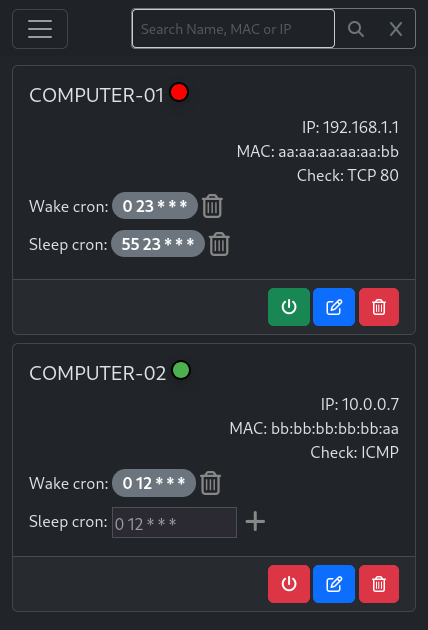
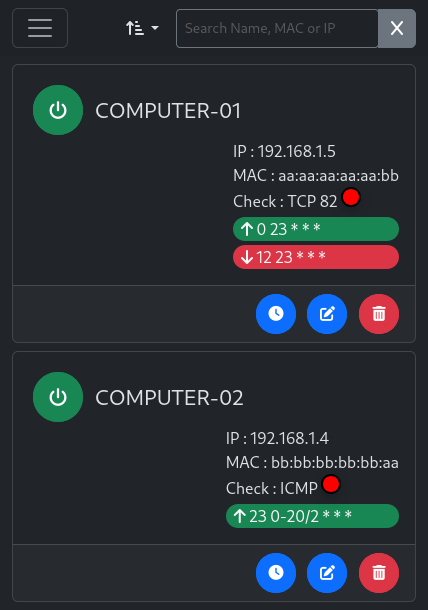
6.0.0 Major UI Redisign

diff --git a/app/templates/wol_form.html b/app/templates/wol_form.html
@@ -18,6 +18,10 @@
     <script>
       const arp_scan_url = "{{ url_for('arp_scan') }}";
       const check_status_url = "{{ url_for('check_status') }}";
+      const add_wol_cron_url = "{{ url_for('add_wol_cron') }}"
+      const add_sol_cron_url = "{{ url_for('add_sol_cron') }}"
+      const delete_wol_cron_url = "{{ url_for('delete_wol_cron') }}"
+      const delete_sol_cron_url = "{{ url_for('delete_sol_cron') }}"
 
       {% if os.environ.get('ENABLE_REFRESH') != 'false' -%}
         setInterval(() => {
@@ -115,92 +119,62 @@
    {% endif -%}
 
     <div class="container-fluid">
-      <div class="row justify-content-center">
+      <div class="row row-sortable">
         {% for computer in computers %}
-        <div class="col-lg-4 col-md-6 computer-card">
-          <div class="card mt-2">
-            <div class="card-body">
-              <h5 class="card-title">{{ computer.name }} <span class="status-indicator asleep" data-ip-address="{{ computer.ip_address }}" data-test-type="{{ computer.test_type }}"></span></h5>
-              <div class="text-end">IP: {{ computer.ip_address }}</div>
-              <div class="text-end">MAC: {{ computer.mac_address }}</div>
-              {% if computer.test_type == 'icmp' -%}
-              <div class="text-end">Check: ICMP</div>
-              {% elif computer.test_type == 'arp' -%}
-              <div class="text-end">Check: ARP</div>
-              {% else -%}
-              <div class="text-end">Check: TCP {{ computer.test_type }}</div>
-              {% endif -%}
-              <div class="row align-items-center g-0">
-              {% if computer.cron_wol_schedule is defined -%}
-                <div class="col-md-auto w-auto">Wake cron:  <span class="badge bg-secondary rounded-pill fs-6">{{ computer.cron_wol_schedule }}</span></div>
-                {% if os.environ.get('ENABLE_ADD_DEL') != 'false' -%}
-                <div class="col-md-auto w-auto">
-                  <button class="delete-button" type="submit" title="Delete Cron" data-bs-toggle="modal" data-bs-target="#staticDelete" onclick="setDeleteForm('{{ url_for('delete_wol_cron') }}', 'mac_address', '{{ computer.mac_address }}', 'Wake cron of {{ computer.name }}')">
-                    <i class="fa-regular fa-trash-can"></i>
-                  </button>
-                </div>
-                {% endif -%}
-              {% else -%}
-                {% if os.environ.get('ENABLE_ADD_DEL') != 'false' -%}
-                <div class="col-md-auto w-auto pe-1">Wake cron: </div>
-                <div class="col-md-auto w-auto">
-                  <form method="POST" action="{{ url_for('add_wol_cron') }}">
+        <div class="col-lg-3 col-md-6 d-flex computer-card">
+          <div class="card mt-2 flex-fill d-flex flex-column">
+            <div class="card-body d-flex flex-column flex-grow-1">
+              <div class="title-sortable row justify-content-start p-1">
+                <div class="col-auto">
+                  <form method="POST" action="{{ url_for('wol_or_sol_send') }}">
                     <input type="hidden" name="mac_address" value="{{ computer.mac_address }}">
-                    <input class="w-50 border pt-1" type="text" name="cron_request" id="cron_request" placeholder="0 12 * * *" oninput="resizeInput()" required>
-                    <button class="add-button" type="submit" title="Add Cron">
-                       <i class="fa-solid fa-plus"></i>
+                    <button type="submit" class="btn btn-success btn-circle btn-xl status-power">
+                      <i class="fa-solid fa-power-off"></i>
                     </button>
                   </form>
                 </div>
-              {% else -%}
-                <div class="col-md-auto">Wake cron: Not defined</div>
-                {% endif -%}
-              {% endif -%}
+                <div class="col-auto px-0 my-auto">
+                  <div class="sortable fs-4">{{ computer.name }}</div>
+                </div>
               </div>
-              <div class="row align-items-center g-0">
-              {% if computer.cron_sol_schedule is defined -%}
-                <div class="col-md-auto w-auto">Sleep cron:  <span class="badge bg-secondary rounded-pill fs-6">{{ computer.cron_sol_schedule }}</span></div>
-                {% if os.environ.get('ENABLE_ADD_DEL') != 'false' -%}
-                <div class="col-md-auto w-auto">
-                  <button class="delete-button" type="submit" title="Delete Cron" data-bs-toggle="modal" data-bs-target="#staticDelete" onclick="setDeleteForm('{{ url_for('delete_sol_cron') }}', 'mac_address', '{{ computer.mac_address }}', 'Sleep cron of {{ computer.name }}')">
-                    <i class="fa-regular fa-trash-can"></i>
-                  </button>
+              <div class="d-flex justify-content-end flex-grow-1">
+                <div class="info-sortable">
+                  <div class="sortable">IP    : {{ computer.ip_address }}</div>
+                  <div class="sortable">MAC   : {{ computer.mac_address }}</div>
+                  {% if computer.test_type in ['icmp', 'arp'] -%}
+                  <div>Check : {{ computer.test_type | upper }}
+                  {% else -%}
+                  <div>Check : TCP {{ computer.test_type }}
+                  {% endif -%}
+                  <span class="status-indicator asleep" data-ip-address="{{ computer.ip_address }}" data-test-type="{{ computer.test_type }}"></span></div>
+                  {% if computer.cron_wol_schedule is defined -%}
+                  <div class="mt-1 text-light rounded-pill bg-success px-2">
+                    <i class="fa-solid fa-arrow-up"></i>
+                    <span>{{ computer.cron_wol_schedule }}</span>
+                  </div>
+                  {% endif -%}
+                  {% if computer.cron_sol_schedule is defined -%}
+                  <div class="mt-1 text-light rounded-pill bg-danger px-2">
+                    <i class="fa-solid fa-arrow-down"></i>
+                    <span>{{ computer.cron_sol_schedule }}</span>
+                  </div>
+                  {% endif -%}
                 </div>
-                {% endif -%}
-              {% else -%}
-                {% if os.environ.get('ENABLE_ADD_DEL') != 'false' -%}
-                <div class="col-md-auto w-auto pe-1">Sleep cron: </div>
-                <div class="col-md-auto w-auto">
-                  <form method="POST" action="{{ url_for('add_sol_cron') }}">
-                    <input type="hidden" name="mac_address" value="{{ computer.mac_address }}">
-                    <input class="w-50 border pt-1" type="text" name="cron_request" id="cron_request" placeholder="0 12 * * *" oninput="resizeInput()" required>
-                    <button class="add-button" type="submit" title="Add Cron">
-                       <i class="fa-solid fa-plus"></i>
-                    </button>
-                  </form>
-                </div>
-              {% else -%}
-                <div class="col-md-auto">Sleep cron: Not defined</div>
-                {% endif -%}
-              {% endif -%}
               </div>
             </div>
-            <div class="card-footer text-end">
-              <form method="POST" action="{{ url_for('wol_or_sol_send') }}" style="display: inline-block;">
-                <input type="hidden" name="mac_address" value="{{ computer.mac_address }}">
-                <button type="submit" class="btn btn-success status-power">
-                  <i class="fa-solid fa-power-off"></i>
-                </button>
-              </form>
-              {% if os.environ.get('ENABLE_ADD_DEL') != 'false' -%}
-              <button type="button" class="btn btn-primary" title="Edit computer" data-bs-toggle="modal" data-bs-target="#editComputer" data-name="{{ computer.name }}" data-mac-address="{{ computer.mac_address }}" data-ip-address="{{ computer.ip_address }}" data-test-type="{{ computer.test_type }}">
+            {% if os.environ.get('ENABLE_ADD_DEL') != 'false' -%}
+            <div class="card-footer text-end py-0">
+              <button type="button" class="btn btn-primary btn-circle btn-lg" title="Configure Cron" data-bs-toggle="modal" data-bs-target="#cronSettingsModal" onclick="loadCronSettings('{{ computer.name }}', '{{ computer.cron_wol_schedule }}', '{{ computer.cron_sol_schedule }}', '{{ computer.mac_address }}')">
+                <i class="fa-regular fa-clock"></i>
+              </button>
+              <button type="button" class="btn btn-primary btn-circle btn-lg m-2" title="Edit computer" data-bs-toggle="modal" data-bs-target="#editComputer" data-name="{{ computer.name }}" data-mac-address="{{ computer.mac_address }}" data-ip-address="{{ computer.ip_address }}" data-test-type="{{ computer.test_type }}">
                 <i class="fa-regular fa-pen-to-square"></i>
               </button>
-              <button type="button" class="btn btn-danger" title="Delete computer" data-bs-toggle="modal" data-bs-target="#staticDelete" onclick="setDeleteForm('{{ url_for('delete_computer') }}', 'mac_address', '{{ computer.mac_address }}', 'Computer {{ computer.name }}')">
+              <button type="button" class="btn btn-danger btn-circle btn-lg" title="Delete computer" data-bs-toggle="modal" data-bs-target="#staticDelete" onclick="setDeleteForm('{{ url_for('delete_computer') }}', 'mac_address', '{{ computer.mac_address }}', 'Computer {{ computer.name }}')">
                 <i class="fa-regular fa-trash-can"></i>
               </button>
-              {% endif -%}
             </div>
+            {% endif -%}
           </div>
         </div>
         {% endfor %}
@@ -280,6 +254,23 @@
       </div>
     </div>
 
+    <div class="modal fade" id="cronSettingsModal" tabindex="-1" aria-labelledby="cronSettingsModalLabel" aria-hidden="true">
+      <div class="modal-dialog">
+        <div class="modal-content">
+          <div class="modal-header">
+            <h5 class="modal-title" id="cronSettingsModalLabel">Schedule Wake or Sleep</h5>
+            <button type="button" class="btn-close" data-bs-dismiss="modal" aria-label="Close"></button>
+          </div>
+          <div class="modal-body">
+            <div id="cronSettingsContent"></div>
+          </div>
+          <div class="modal-footer">
+            <button type="button" class="btn btn-secondary" data-bs-dismiss="modal">Close</button>
+          </div>
+        </div>
+      </div>
+    </div>
+
     <div class="modal fade" id="staticDelete" data-bs-backdrop="static" data-bs-keyboard="false" tabindex="-1" aria-labelledby="staticDeleteLabel" aria-hidden="true">
       <div class="modal-dialog">
         <div class="modal-content">
@@ -332,13 +323,8 @@
                   <span>GPTWOL</span>
                 </a>
               </p>
-              <p><strong>Version:</strong> 5.3.2</p>
+              <p><strong>Version:</strong> 6.0.0</p>
               <p><strong>License:</strong> MIT</p>
-            </div>
-            <hr>
-            <div class="text-center">
-              <p><strong>Documentation:</strong></p>
-              <p>- <a class="text-decoration-none" href="https://github.com/Misterbabou/gptwol#configure-sleep-on-lan" target="_blank" rel="noopener noreferrer">Configure Sleep on Lan</a></p>
             </div>
           </div>
           <div class="modal-footer">
@@ -350,6 +336,7 @@
 
     {% if os.environ.get('ENABLE_ADD_DEL') != 'false' -%}
     <script src="{{ url_for('static', filename='js/editcomputer.js') }}"></script>
+    <script src="{{ url_for('static', filename='js/editcron.js') }}"></script>
     <script src="{{ url_for('static', filename='js/delcomputer.js') }}"></script>
     {% endif -%}
     <script src="{{ url_for('static', filename='js/darkmode.js') }}"></script>

diff --git a/app/templates/js/editcron.js b/app/templates/js/editcron.js
@@ -1,0 +1,78 @@
+function loadCronSettings(computerName, wolSchedule, solSchedule, macAddress) {
+  const header = `<h5 class="text-primary">${computerName} (${macAddress})</h5>`;
+
+  const helpSection = `
+    <hr>
+    <div>
+      <div><strong>Help:</strong></div>
+      <div>- <a class="text-decoration-none" href="https://crontab.guru/" target="_blank" rel="noopener noreferrer">Generate cron entry</a></div>
+      <div>- <a class="text-decoration-none" href="https://github.com/Misterbabou/gptwol#configure-sleep-on-lan" target="_blank" rel="noopener noreferrer">Configure Sleep on Lan</a></div>
+    </div>
+    `;
+
+  const wolContent = wolSchedule ? `
+    <div class="row align-items-center g-0">
+      <div class="col-md-auto w-auto">Wake cron: <span class="badge bg-secondary rounded-pill fs-6">${wolSchedule}</span></div>
+      <div class="col-md-auto w-auto">
+        <button class="delete-button" type="button" title="Delete Wake Cron" onclick="deleteCron('${macAddress}', 'wol')">
+          <i class="fa-regular fa-trash-can"></i>
+        </button>
+      </div>
+    </div>` : `
+    <div class="row align-items-center g-0">
+      <div class="col-md-auto w-auto">Wake cron:</div>
+      <div class="col-md-auto w-auto">
+        <form method="POST" action="${add_wol_cron_url}">
+          <input type="hidden" name="mac_address" value="${macAddress}">
+          <input class="pt-1" type="text" name="cron_request" placeholder="0 12 * * *" required>
+          <button class="add-button" type="submit" title="Add Cron">
+            <i class="fa-solid fa-plus"></i>
+          </button>
+        </form>
+      </div>
+    </div>`;
+
+  const solContent = solSchedule ? `
+    <div class="row align-items-center g-0">
+      <div class="col-md-auto w-auto">Sleep cron: <span class="badge bg-secondary rounded-pill fs-6">${solSchedule}</span></div>
+      <div class="col-md-auto w-auto">
+        <button class="delete-button" type="button" title="Delete Sleep Cron" onclick="deleteCron('${macAddress}', 'sol')">
+          <i class="fa-regular fa-trash-can"></i>
+        </button>
+      </div>
+    </div>` : `
+    <div class="row align-items-center g-0">
+      <div class="col-md-auto w-auto">Sleep cron:</div>
+      <div class="col-md-auto w-auto">
+        <form method="POST" action="${add_sol_cron_url}">
+          <input type="hidden" name="mac_address" value="${macAddress}">
+          <input class="pt-1" type="text" name="cron_request" placeholder="0 12 * * *" required>
+          <button class="add-button" type="submit" title="Add Cron">
+            <i class="fa-solid fa-plus"></i>
+          </button>
+        </form>
+      </div>
+    </div>`;
+
+  const content = header + wolContent + solContent + helpSection;
+
+  document.getElementById('cronSettingsContent').innerHTML = content;
+}
+
+function deleteCron(macAddress, type) {
+  const url = type === 'wol' ? delete_wol_cron_url : delete_sol_cron_url;
+
+  // Create a form to submit the delete request
+  const form = document.createElement('form');
+  form.method = 'POST';
+  form.action = url;
+
+  const input = document.createElement('input');
+  input.type = 'hidden';
+  input.name = 'mac_address';
+  input.value = macAddress;
+
+  form.appendChild(input);
+  document.body.appendChild(form);
+  form.submit();
+}

diff --git a/app/templates/js/searchbar.js b/app/templates/js/searchbar.js
@@ -3,14 +3,14 @@ function filterComputers() {
   const cards = document.querySelectorAll('.computer-card');
 
   cards.forEach(card => {
-    const title = card.querySelector('.card-title').textContent.toLowerCase();
-    const ip = card.querySelector('.text-end:nth-of-type(1)').textContent.toLowerCase(); // IP address
-    const mac = card.querySelector('.text-end:nth-of-type(2)').textContent.toLowerCase(); // MAC address
+    const title = card.querySelector('.title-sortable .sortable').textContent.toLowerCase();
+    const ip = card.querySelector('.info-sortable .sortable:nth-of-type(1)').textContent.toLowerCase(); // IP address
+    const mac = card.querySelector('.info-sortable .sortable:nth-of-type(2)').textContent.toLowerCase(); // MAC address
 
     if (title.includes(query) || ip.includes(query) || mac.includes(query)) {
-      card.style.display = ''; // Show card
+      card.classList.remove('hidden'); // Show card
     } else {
-      card.style.display = 'none'; // Hide card
+      card.classList.add('hidden'); // Hide card
     }
   });
 }
@@ -29,7 +29,7 @@ function ipToNumber(ip) {
 }
 
 function sortComputers(criteria) {
-  const cardsContainer = document.querySelector('.row.justify-content-center');
+  const cardsContainer = document.querySelector('.row.row-sortable');
   const cards = Array.from(cardsContainer.children); // Convert NodeList to Array
 
   // Update the active class in the dropdown
@@ -44,21 +44,21 @@ function sortComputers(criteria) {
 
     switch (criteria) {
       case 'name':
-        aValue = a.querySelector('.card-title').textContent.toLowerCase();
-        bValue = b.querySelector('.card-title').textContent.toLowerCase();
+        aValue = a.querySelector('.title-sortable .sortable').textContent.toLowerCase();
+        bValue = b.querySelector('.title-sortable .sortable').textContent.toLowerCase();
         dropdownItems[0].classList.add('active'); // Sort by Name
         return aValue.localeCompare(bValue); // Compare values for sorting
 
       case 'ip':
-        const aIp = a.querySelector('.text-end:nth-of-type(1)').textContent;
-        const bIp = b.querySelector('.text-end:nth-of-type(1)').textContent;
+        const aIp = a.querySelector('.info-sortable .sortable:nth-of-type(1)').textContent;
+        const bIp = b.querySelector('.info-sortable .sortable:nth-of-type(1)').textContent;
         dropdownItems[1].classList.add('active'); // Sort by IP
 
         return ipToNumber(aIp) - ipToNumber(bIp); // Compare numeric values
 
       case 'mac':
-        aValue = a.querySelector('.text-end:nth-of-type(2)').textContent.toLowerCase(); // MAC address
-        bValue = b.querySelector('.text-end:nth-of-type(2)').textContent.toLowerCase(); // MAC address
+        aValue = a.querySelector('.info-sortable .sortable:nth-of-type(2)').textContent.toLowerCase(); // MAC address
+        bValue = b.querySelector('.info-sortable .sortable:nth-of-type(2)').textContent.toLowerCase(); // MAC address
         dropdownItems[2].classList.add('active'); // Sort by MAC
         return aValue.localeCompare(bValue); // Compare values for sorting
     }

diff --git a/app/templates/css/styles.css b/app/templates/css/styles.css
@@ -1,3 +1,7 @@
+.hidden {
+  display: none !important;
+}
+
 .status-indicator {
   width: 20px;
   height: 20px;
@@ -31,4 +35,30 @@
   border-radius: 4px;
   flex: 1;
   font-size: 14px;
+}
+
+.btn-circle {
+  width: 30px;
+  height: 30px;
+  text-align: center;
+  padding: 0;
+  font-size: 12px;
+  line-height: 1.428571429;
+  border-radius: 15px;
+}
+.btn-circle.btn-lg {
+  width: 40px;
+  height: 40px;
+  padding: 0;
+  font-size: 15px;
+  line-height: 1.33;
+  border-radius: 20px;
+}
+.btn-circle.btn-xl {
+  width: 50px;
+  height: 50px;
+  padding: 0;
+  font-size: 18px;
+  line-height: 1.33;
+  border-radius: 25px;
 }
